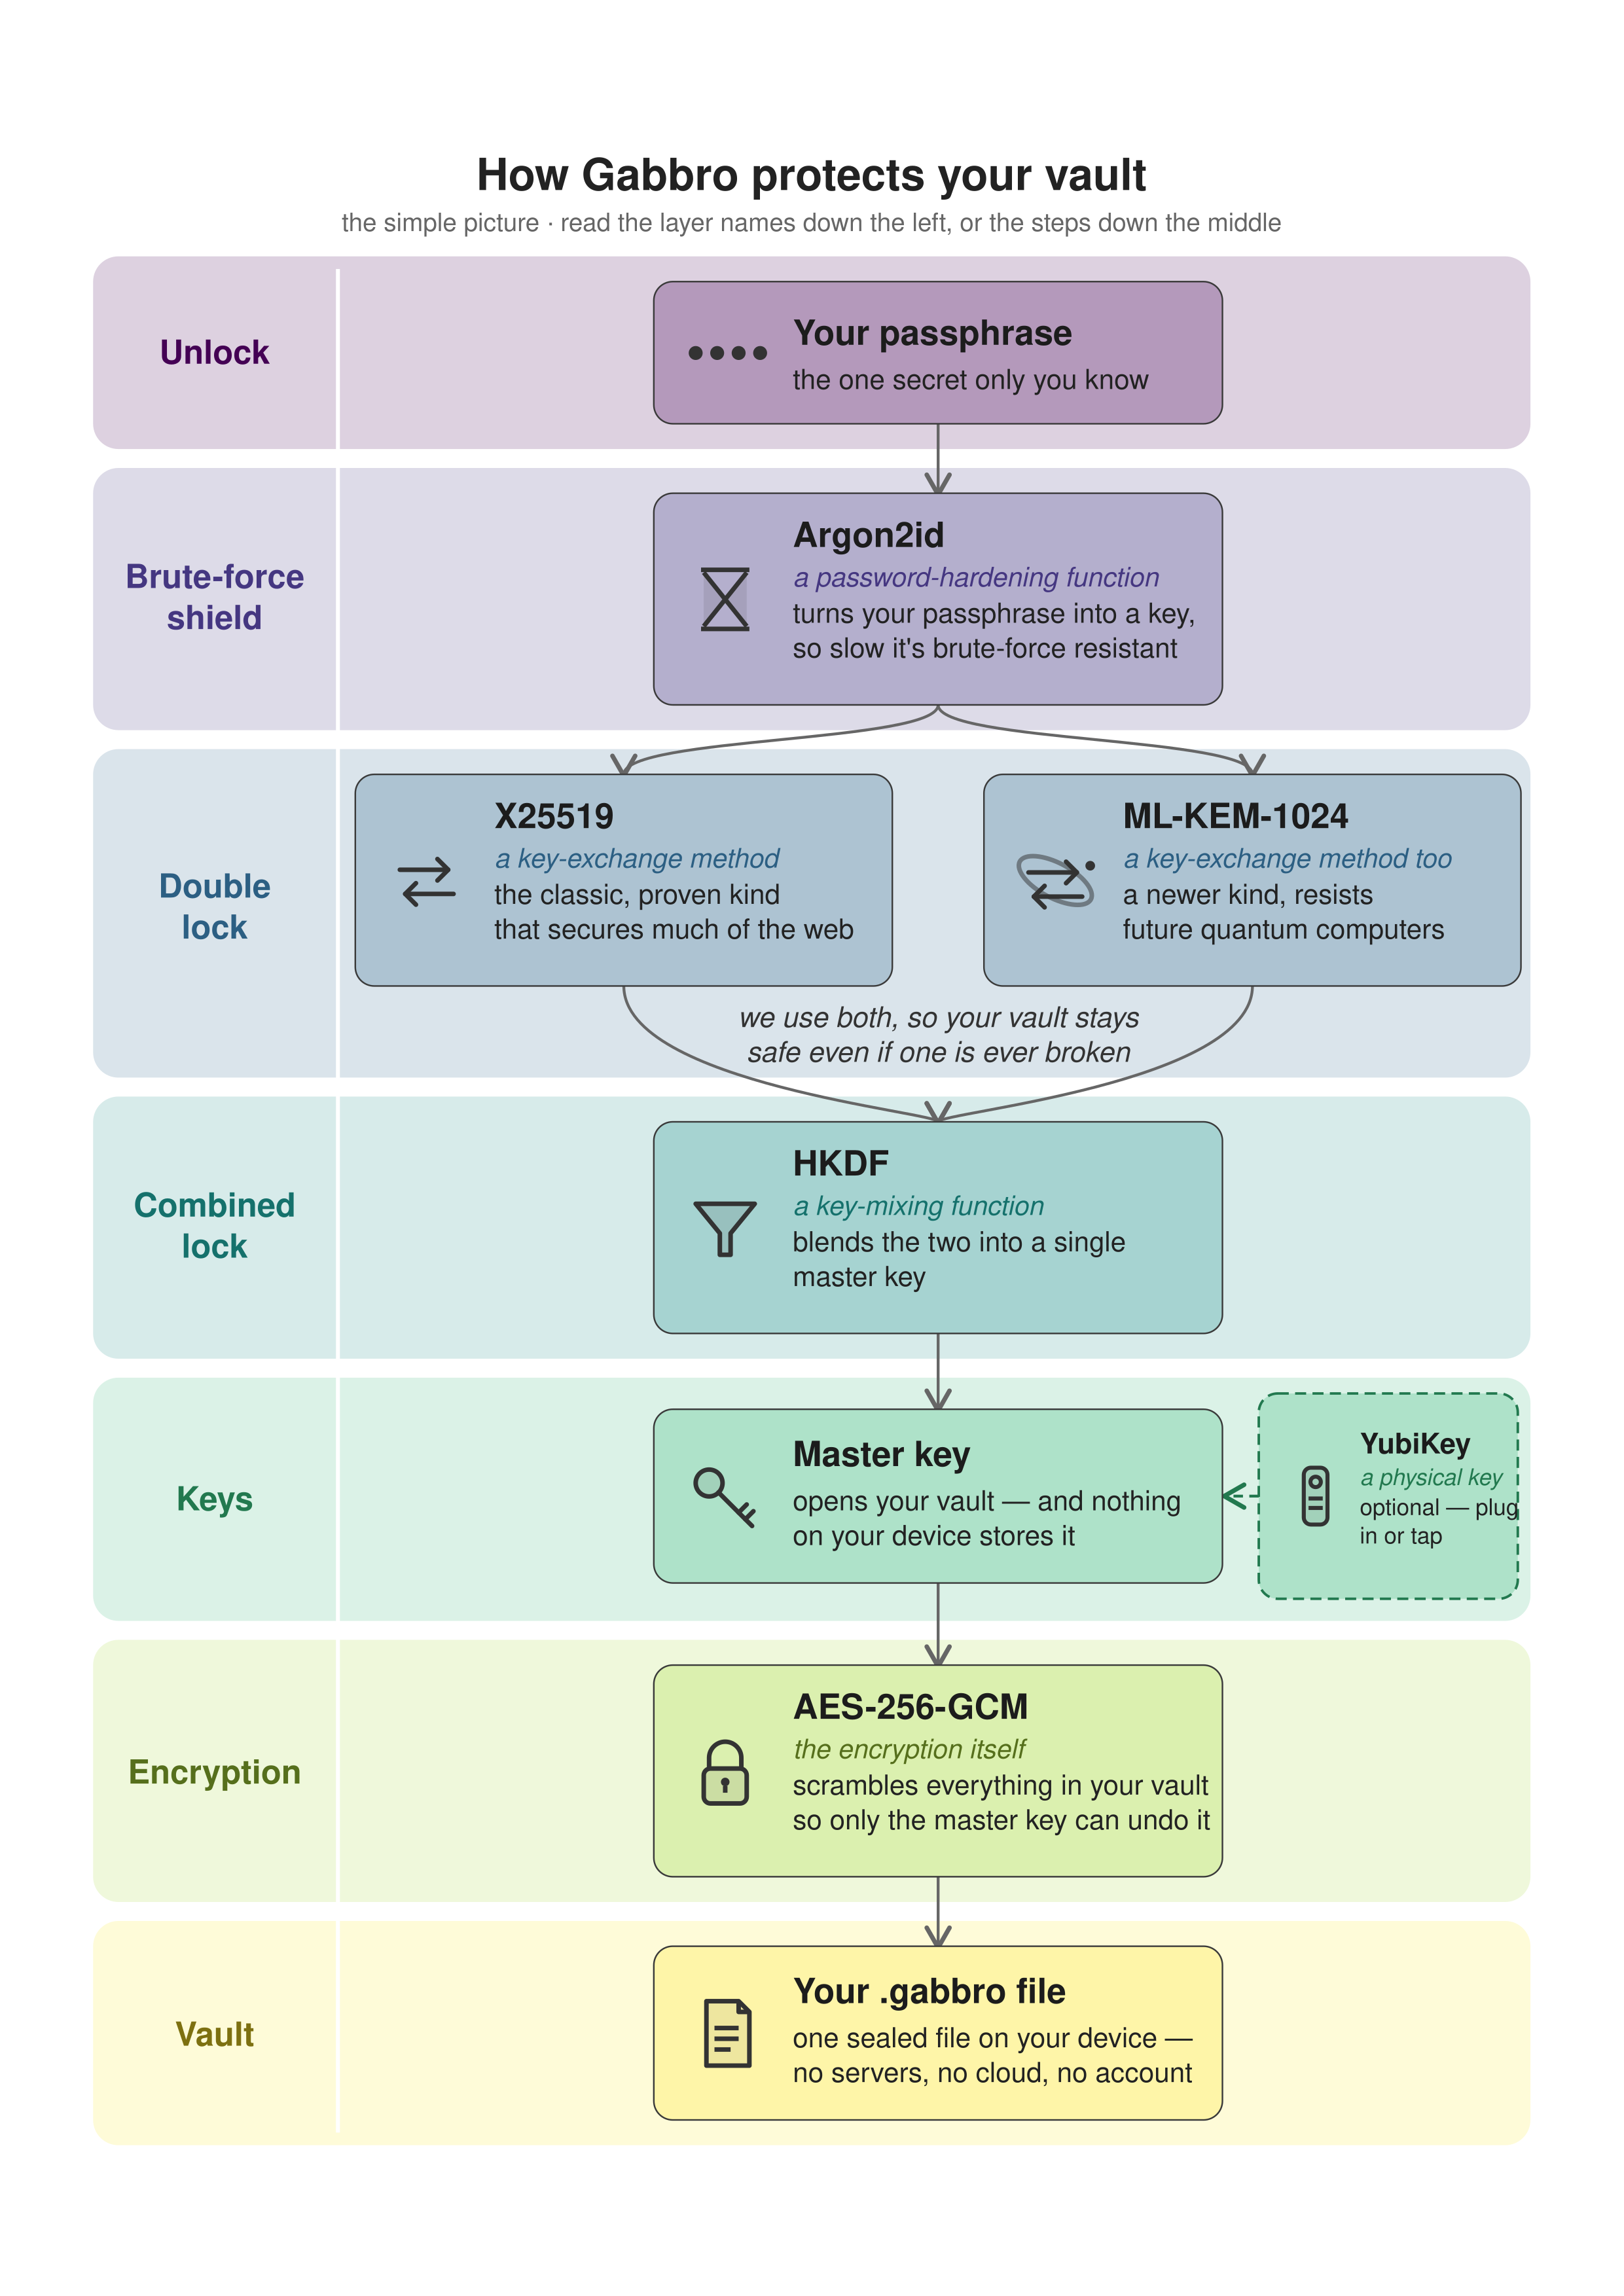
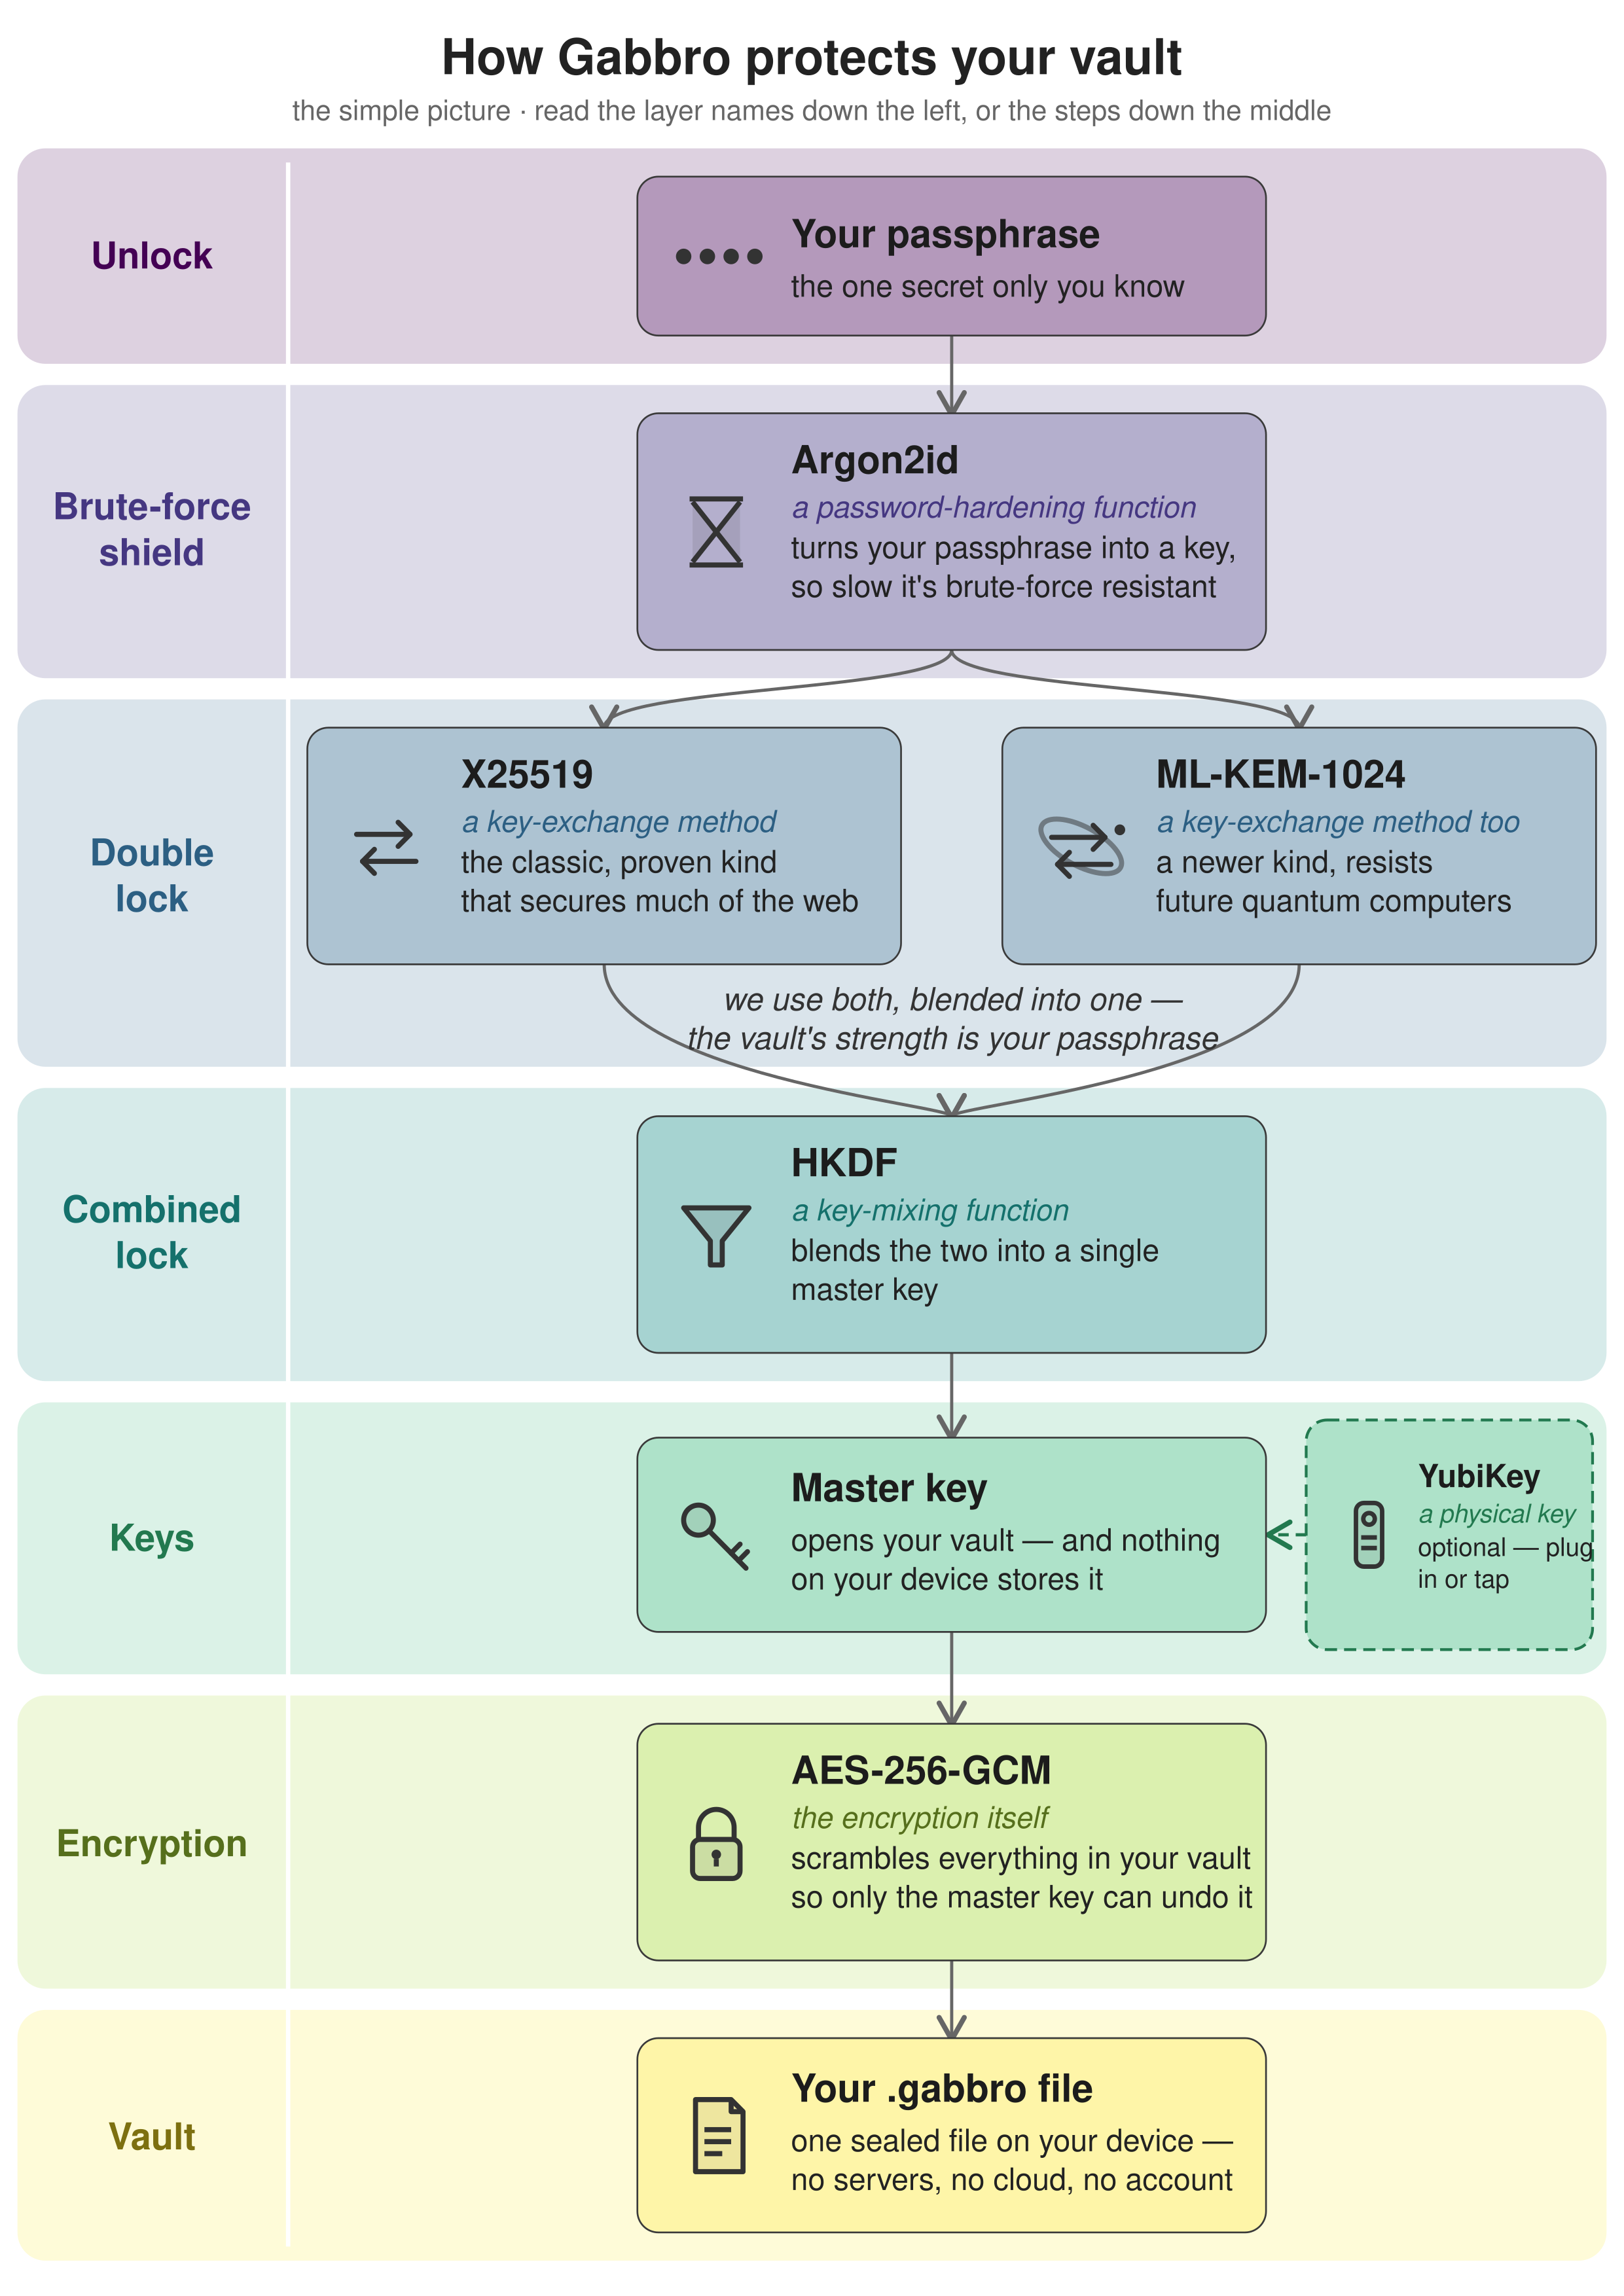
docs: reclassify hybrid KEM as not load-bearing (ADR-018)

diff --git a/docs/decisions/ADR-018-hybrid-kem-not-load-bearing.md b/docs/decisions/ADR-018-hybrid-kem-not-load-bearing.md
@@ -1,0 +1,77 @@
+# ADR-018: The Hybrid KEM Layer Is Not Load-Bearing
+
+## Status
+Accepted
+
+## Date
[phone redacted]
+
+## Context
+
+External review (Cryptography Stack Exchange, 2026-07-08, comment by
+poncho) confirmed a design-level fact about the X25519 + ML-KEM-1024
+hybrid layer ("double lock") that prior ADRs got wrong.
+
+**Why the layer exists:** "post-quantum password manager" was the
+project's founding identity (initial commit, 2026-03-18). ADR-006
+inherited ML-KEM as an unexamined premise and added X25519, justified
+by "vault secure if either ML-KEM or X25519 holds". Nobody asked the
+obvious question first: can the passphrase alone open the vault?
+
+**Why that claim is empty:** both keypairs are re-derived from the
+same Argon2id output, i.e. from the passphrase.
+- Attacker *with* a passphrase guess: re-derives both keypairs and
+  bypasses the layer entirely. Guessing is the only real attack.
+- Attacker *without* the passphrase: cannot even attack the layer —
+  neither public key is stored in the file. The vault stays secure
+  even if *both* algorithms are broken.
+In no scenario does vault security depend on X25519 or ML-KEM. The
+layer is structure, not strength.
+
+**What actually makes Gabbro quantum-resistant:** Argon2id + AES-256.
+Quantum computers break key-exchange math; they barely help with
+passphrase guessing, and AES-256 resists them. Gabbro is quantum-safe
+the same way KeePass/Bitwarden are — via the symmetric stack. ML-KEM
+is quantum-resistant math doing a job that did not need doing.
+
+**Passphrase-only mode** (added after ADR-006, which assumed a
+mandatory YubiKey): exactly as strong as the passphrase, no more.
+Argon2id is the only brute-force defence. Passphrase + YubiKey mode
+is sound: the YubiKey's hmac-secret is an independent physical secret,
+mixed into the vault key downstream of the hybrid layer.
+
+**What the layer does deliver:** a fresh vault key per save (from the
+encapsulation/ephemeral randomness) — achievable with a random HKDF
+salt alone. It is also pre-built plumbing for a future genuinely
+independent second secret (keyfile, secure element), but every such
+secret conflicts with the copy-the-file portability model, so this
+optionality is expensive to ever cash in.
+
+**Industry hybrid guidance** (TLS, Signal, iMessage) answers "should
+PQ key exchange be paired with classical?" — yes. It does not answer
+"should a passphrase-unlocked file format contain key exchange at
+all?". Two-party recommendations do not transfer to one secret
+re-derived on one device.
+
+## Decision
+
+1. Reclassify the hybrid layer as non-load-bearing structure. All
+   "belt and suspenders" / "secure if either holds" claims are
+   retracted; living docs (ARCHITECTURE, SECURITY, README, diagrams)
+   to be corrected to attribute quantum resistance to Argon2id +
+   AES-256-GCM.
+2. Keep the layer for now — removal is a vault-format change and the
+   Stack Exchange question ("can it make things *worse* than
+   HKDF(KM)?") is still open. Revisit keep-vs-remove when it
+   concludes.
+3. ADR-006 marked superseded. ADR-005 marked amended: its side-claim
+   that "the PQ claim rests on ML-KEM + AES-256-GCM" is corrected by
+   this ADR (its actual decision — ML-DSA over hybrid signatures —
+   stands). Note:
+   ADR-006's "cheap passphrase change via random session key K" was
+   never implemented; passphrase change is a full reseal.
+
+## References
+
+- https://crypto.stackexchange.com/questions/119762/
+- ADR-005, ADR-006

diff --git a/README.md b/README.md
@@ -1,6 +1,6 @@
 # Gabbro
 
-A post-quantum password manager built with security as core DNA.
+A quantum-resistant password manager.
 
 > **Status: Alpha.**
 > All vault operations implemented and tested in Rust; Flutter UI complete.
@@ -10,17 +10,17 @@ A post-quantum password manager built with security as core DNA.
 ## What is Gabbro?
 
 Gabbro is a free, open-source password manager designed for users who
-take security seriously. It combines classical and post-quantum
-cryptography to protect your secrets today and against the quantum
-computers of tomorrow.
+take security seriously. Your secrets are protected by memory-hard key
+derivation (Argon2id) and AES-256 encryption — both resistant to
+classical and quantum attack.
 
 Named after the intrusive igneous rock — hard, stable, enduring.
 
 ### Key properties
 
-- **Post-quantum cryptography** — ML-KEM (NIST standard) alongside
-  AES-256-GCM; belt and suspenders against both classical and quantum
-  threats
+- **Quantum-resistant by design** — vault security rests on Argon2id +
+  AES-256-GCM, both quantum-resistant; a hybrid X25519 + ML-KEM-1024
+  layer is additionally present (structural, not load-bearing — ADR-018)
 - **Hardware key (optional, recommended)** — FIDO2/YubiKey authentication; passphrase-only
   by default, with a minimum of two keys when keys are used (primary + backup)
 - **Rust for all secrets** — every cryptographic operation lives in
@@ -61,7 +61,7 @@ secret, it lives in Rust. Everything else lives in Flutter.
 
 <p align="center">
   <img src="docs/artefacts/gabbro_crypto_stack_simple_icons.svg" width="460"
-       alt="How Gabbro protects your vault: your passphrase runs through Argon2id (a password-hardening step that makes brute force impractical), then two key-exchange methods in parallel — X25519 (classic) and ML-KEM-1024 (quantum-resistant) — which HKDF blends into a single master key (optionally combined with a YubiKey). AES-256-GCM then encrypts everything into your local .gabbro vault file.">
+       alt="How Gabbro protects your vault: your passphrase runs through Argon2id (a password-hardening step that makes brute force impractical), then two key-exchange methods, blended by HKDF into a single master key (optionally combined with a YubiKey). AES-256-GCM then encrypts everything into your local .gabbro vault file. The vault's strength comes from your passphrase: Argon2id and AES-256-GCM are the quantum-resistant defences; the key-exchange layer is structural.">
 </p>
 
 *A plain-language overview. For the version-accurate detail, see the [full technical diagram](docs/artefacts/gabbro_crypto_stack_flow.svg).*
@@ -69,11 +69,14 @@ secret, it lives in Rust. Everything else lives in Flutter.
 ```
 passphrase + random_salt
 → Argon2id (KDF)
-→ 256-bit master key
-→ ML-KEM (post-quantum key encapsulation)
+→ X25519 + ML-KEM-1024 hybrid key exchange
+→ HKDF-SHA256 (master key; optional YubiKey factor)
 → AES-256-GCM (vault encryption)
 → encrypted vault body + auth tag
 ```
+
+Quantum resistance comes from Argon2id + AES-256-GCM; the hybrid
+key-exchange layer is structural, not load-bearing (ADR-018).
 
 Vault files use the `.gabbro` extension and are self-contained —
 all parameters needed for decryption travel with the file.

diff --git a/docs/SECURITY.md b/docs/SECURITY.md
@@ -362,7 +362,7 @@ the current implementation.
 |---|---|---|---|---|
 | Local-first (no mandatory cloud) | ✓ | ✓ | ✓ (self-host) | ✓ |
 | Open source | ✓ GPL-3.0 | ✓ GPL-2.0 | ✓ AGPL-3.0 | ✓ GPL-2.0 |
-| Post-quantum encryption | ✓ ML-KEM-1024 | ✗ | ✗ | ✗ |
+| PQ KEM in stack | ✓ ML-KEM-1024 (structural, not load-bearing — ADR-018) | ✗ | ✗ | ✗ |
 | Hardware key (2FA) support | ✓ FIDO2 (optional but strongly recommended) | Optional (plugins) | Optional (TOTP / hardware token) | ✗ (GPG only) |
 | Memory-scrubbing on lock | ✓ (verified by gcore test) | ✓ (documented) | Unknown | Relies on GPG agent |
 | External cryptographic audit | **✗ none yet** | ✓ multiple | ✓ multiple (Cure53, etc.) | ✓ (GPG is audited) |
@@ -373,12 +373,16 @@ the current implementation.
 **Note:** KeePass and Bitwarden have received multiple independent security audits.
 Gabbro has not. This is the most significant gap in the table.
 
+**Note on the PQ row:** all four managers are comparably quantum-resistant at rest —
+that property comes from memory-hard KDFs + 256-bit symmetric encryption, which they
+all share. Gabbro's ML-KEM layer is present but not load-bearing (ADR-018).
+
 ### Gabbro's crypto choices vs alternatives
 
 | Decision | Gabbro | Common alternative | Why Gabbro's choice |
 |---|---|---|---|
 | KDF | Argon2id (RFC 9106) | PBKDF2-HMAC-SHA256 | Argon2id is memory-hard; PBKDF2 is not. Memory-hardness is the main defence against GPU/ASIC brute-force. Argon2id is the current OWASP and NIST recommendation. |
-| Key exchange | X25519 + ML-KEM-1024 hybrid | X25519 alone (classical) | The hybrid approach adds a post-quantum layer without weakening classical security: if ML-KEM has a flaw, X25519 still protects the vault; if a quantum computer breaks X25519, ML-KEM still protects it. |
+| Key exchange | X25519 + ML-KEM-1024 hybrid | X25519 alone (classical) | Neither KEM is load-bearing: both keypairs derive from the passphrase, so vault security rests on Argon2id + AES-256-GCM (ADR-018). The hybrid layer is retained as structure pending external review. |
 | YubiKey binding | Second HKDF pass after the hybrid combiner | Passphrase alone | Adds a hardware factor that blocks offline brute-force entirely, independent of passphrase strength. |
 | Symmetric cipher | AES-256-GCM | AES-256-CBC + HMAC, or ChaCha20-Poly1305 | AES-256-GCM is an AEAD — it authenticates as well as encrypts in a single pass. ChaCha20-Poly1305 would be an equally valid choice; AES-GCM was chosen for FIPS alignment. |
 | KDF combiner | HKDF-SHA256 (RFC 5869) | Concatenation + hash | HKDF is a standard, well-studied PRF. The random per-seal salt means even identical passphrases produce different vault keys. |

diff --git a/docs/decisions/ADR-006-encryption-implementation.md b/docs/decisions/ADR-006-encryption-implementation.md
@@ -1,7 +1,9 @@
 # ADR-006: Encryption Stack Implementation
 
 ## Status
-Accepted
+Superseded by ADR-018 — the hybrid "secure if either holds" claim is
+incorrect (both keypairs derive from the passphrase). Parameter, crate,
+and byte-layout decisions remain accurate.
 
 ## Date
 2026-04-09
@@ -61,8 +63,6 @@ Note: hybrid *key exchange* is the right tradeoff here. ADR-005
 rejected hybrid *signatures* for authentication — that reasoning
 does not carry over. Ephemeral key material is cheap to compose;
 signature protocol complexity is not.
-
-### 3. Argon2id parameters as a serializable struct
 
 ### 3. Argon2id parameters as a serializable struct
 

diff --git a/docs/ARCHITECTURE.md b/docs/ARCHITECTURE.md
@@ -2,7 +2,7 @@
 
 ## Project Overview
 
-A post-quantum password manager built with security as core DNA.
+A quantum-resistant password manager.
 Named after the intrusive igneous rock — hard, stable, enduring.
 Cross-platform: Linux (Arch, Mint), Android; Windows later. FOSS, GPL-3.0-only.
 
@@ -12,7 +12,7 @@ Cross-platform: Linux (Arch, Mint), Android; Windows later. FOSS, GPL-3.0-only.
 
 **Tech stack:** Flutter (Dart) frontend, Rust backend/crypto, flutter_rust_bridge v2 (FFI).
 
-**Encryption (at rest):** Argon2id KDF → X25519 + ML-KEM-1024 hybrid key exchange → HKDF-SHA256 combiner → AES-256-GCM. Post-quantum: belt and suspenders.
+**Encryption (at rest):** Argon2id KDF → X25519 + ML-KEM-1024 hybrid key exchange → HKDF-SHA256 combiner → AES-256-GCM. Quantum resistance from Argon2id + AES-256-GCM; the hybrid KEM layer is structural, not load-bearing (ADR-018).
 
 **Authentication (app access):** Passphrase always; a FIDO2/WebAuthn hardware key (YubiKey) is strongly recommended but **not enforced** — a passphrase-only vault is the default. When keys are used: v1 Ed25519 (hardware constraint), target ML-DSA-44 once Yubico ships PQ-capable hardware (ADR-005), min 2 keys (primary + backup), max 4. Auto-lock: 30s default, configurable.
 

diff --git a/docs/decisions/ADR-005-pq-authentication-signatures.md b/docs/decisions/ADR-005-pq-authentication-signatures.md
@@ -1,7 +1,9 @@
 # ADR-005: Post-Quantum Authentication — Pure ML-DSA-44
 
 ## Status
-Accepted
+Accepted; amended by ADR-018 — the claim that Gabbro's PQ resistance
+rests on ML-KEM is incorrect (it rests on Argon2id + AES-256-GCM).
+The signature decision itself stands.
 
 ## Date
 2026-04-09

diff --git a/docs/AI_DEVELOPMENT_PROCESS.md b/docs/AI_DEVELOPMENT_PROCESS.md
@@ -57,7 +57,8 @@ catalogued in `AI_AUTHORSHIP_AND_IP.md` applies here:
 - the security boundary — secrets never cross the Flutter/Rust bridge in
   plaintext, Rust owns all decrypted material in memory;
 - the crypto stack and the hybrid-PQC "belt and suspenders" rationale
-  (Argon2id → X25519 + ML-KEM-1024 → HKDF → AES-256-GCM);
+  (Argon2id → X25519 + ML-KEM-1024 → HKDF → AES-256-GCM) — rationale
+  retracted, ADR-018;
 - the FIDO2/YubiKey-only authentication model, and the deliberate decision *not*
   to ship TOTP;
 - the vault file format, the session model, the importer scope (three, not N);

diff --git a/docs/AI_AUTHORSHIP_AND_IP.md b/docs/AI_AUTHORSHIP_AND_IP.md
@@ -50,7 +50,7 @@ The following were human decisions, not AI suggestions:
 
 - The security boundary: secrets never cross the Flutter/Rust bridge in plaintext
 - The crypto stack: Argon2id → ML-KEM-1024 → AES-256-GCM
-- The hybrid PQC approach (belt and suspenders rationale)
+- The hybrid PQC approach (belt and suspenders rationale — retracted, ADR-018)
 - The session model (Rust owns decrypted vault in memory; Flutter never holds it)
 - The GPL-3.0-only licence and the reasoning behind it
 - The FIDO2/YubiKey-only authentication model (no TOTP)